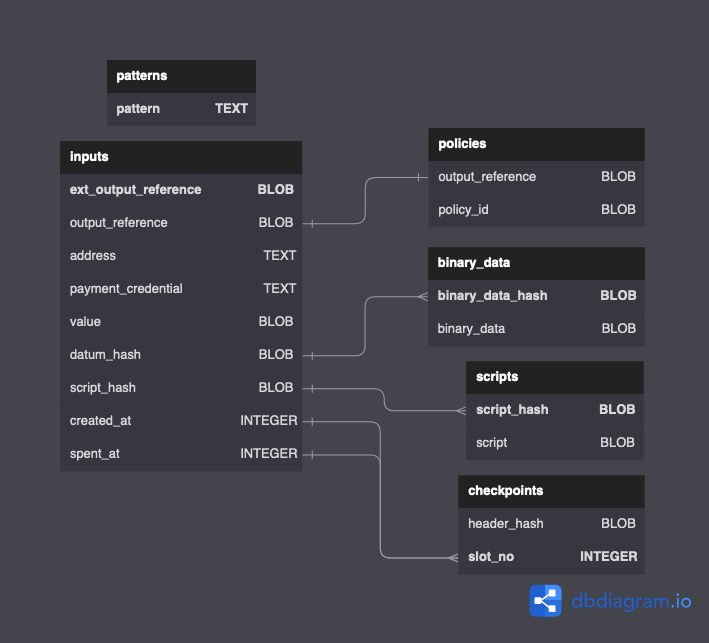
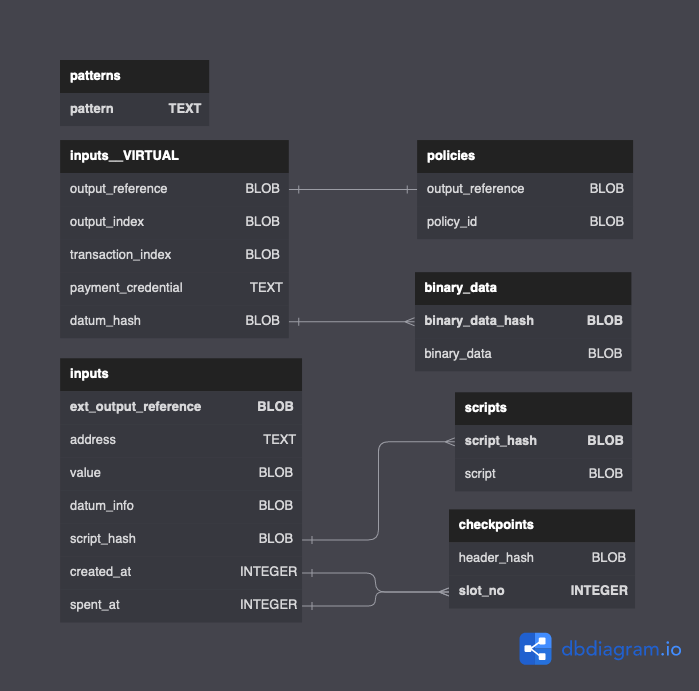
Report whether datums are inline or simple hash reference.
Kupo always returns datum as hashes in results; This makes the data
  quite uniform to work with as datums can then be retrieved simply
  from the `GET /datums/{datum-hash}` endpoint when needed.

  However, this results in a loss of information that is useful for
  client applications. Indeed, when a datum is _inline_, that means
  there's no need for a client application to bring it in scope when
  constructing a transaction. When it's only a reference however, the
  full datum must be provided.

  This commit slightly reworks how datums are stored in the databse; for
  outputs, we now store a "datum_info" which is basically a datum_hash
  with an extra prefix:

  0 => indicates a reference datum
  1 => indicates an inline datum

  This allows to preserve this bit of information (no pun intended) when
  serializing and deserializing datums to the database.

diff --git a/docs/index.html b/docs/index.html
@@ -12,7 +12,6 @@
   <style>
     body { margin: 0; padding: 0; }
     pre {
-      line-height: 1em !important;
       font-family: 'Courrier New', monospace !important;
       white-space: pre !important;
     }

diff --git a/db/README.md b/db/README.md
@@ -13,25 +13,25 @@
 ```sql
 CREATE TABLE `inputs` (
   `ext_output_reference` BLOB PRIMARY KEY NOT NULL,
+  `address` TEXT COLLATE NOCASE NOT NULL,
+  `value` BLOB NOT NULL,
+  `datum_info` BLOB,
+  `script_hash` BLOB,
+  `created_at` INTEGER NOT NULL,
+  `spent_at` INTEGER,
+
   `output_reference` BLOB NOT NULL GENERATED ALWAYS AS (substr(`ext_output_reference`, 1, 34)) VIRTUAL,
   `output_index` BLOB NOT NULL GENERATED ALWAYS AS (substr(`ext_output_reference`, -4, 2)) VIRTUAL,
   `transaction_index` BLOB NOT NULL GENERATED ALWAYS AS (substr(`ext_output_reference`, -2)) VIRTUAL,
-  `address` TEXT COLLATE NOCASE NOT NULL,
-  `payment_credential` TEXT COLLATE NOCASE NOT NULL GENERATED ALWAYS AS (substr(`address`, -56)),
-  `value` BLOB NOT NULL,
-  `datum_hash` BLOB,
-  `script_hash` BLOB,
-  `created_at` INTEGER NOT NULL,
-  `spent_at` INTEGER
+  `payment_credential` TEXT COLLATE NOCASE NOT NULL GENERATED ALWAYS AS (substr(`address`, -56)) VIRTUAL,
+  `datum_hash` BLOB NOT NULL GENERATED ALWAYS AS (substr(`datum_info`, 2)) VIRTUAL
 );
 
 CREATE UNIQUE INDEX `inputsByOutputReference` ON `inputs` (`output_reference`);
 
 CREATE INDEX `inputsByAddress` ON `inputs` (`address` COLLATE NOCASE, `spent_at`);
 CREATE INDEX `inputsByPaymentCredential` ON `inputs` (`payment_credential` COLLATE NOCASE, `spent_at`);
-CREATE INDEX `inputsByDatumHash` ON `inputs` (`datum_hash`);
 CREATE INDEX `inputsByCreatedAt` ON `inputs` (`created_at`);
-CREATE INDEX `inputsBySpentAt` ON `inputs` (`spent_at`);
 
 CREATE TABLE `policies` (
   `output_reference` BLOB NOT NULL,
@@ -65,6 +65,14 @@ CREATE TABLE `patterns` (
 </details>
 
 ## Changelog
+
+<p align="right"><code>v2.2.0</code></p>
+<hr/>
+### Migration to `version=9`
+
+- Rename column `datum_hash` to `datum_info`
+- Add a virtual column `datum_hash` to inputs, as a substring of `datum_info` (with the same semantic as before)
+- Delete all inputs with datums, and rollback checkpoints to before the first block with a datum
 
 <p align="right"><code>v2.1.0</code></p>
 <hr/>

diff --git a/CHANGELOG.md b/CHANGELOG.md
@@ -1,3 +1,17 @@
+### [2.2.0] - UNRELEASED
+
+#### Added
+
+- Results now contain a new field `datum_type` only present when `datum_hash` is **not** null. It indicates whether the datum in the output is `inline` or only a `hash` reference.
+
+#### Changed
+
+N/A
+
+#### Removed
+
+N/A
+
 ### [2.1.0] - 2022-10-22
 
 > **Warning**
